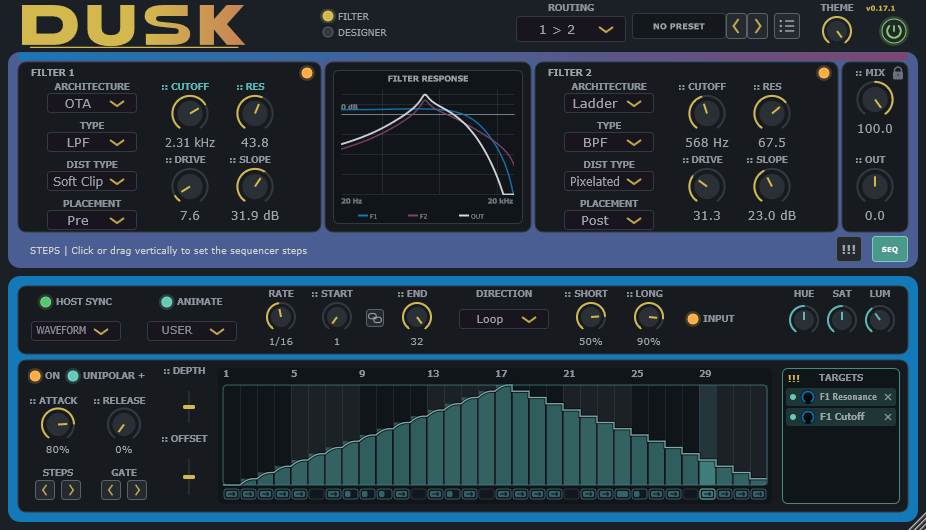
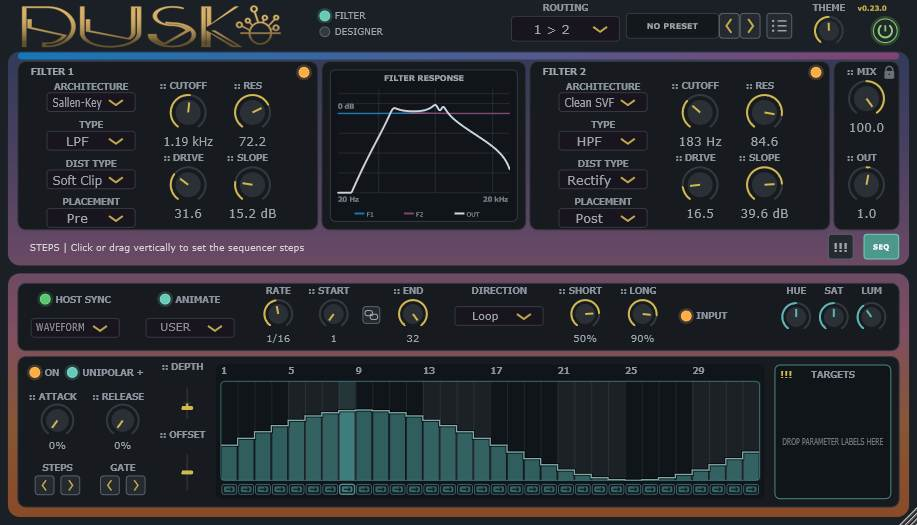
Add files via upload

diff --git a/README.md b/README.md
@@ -2,7 +2,7 @@
 
 <div align="center">
 
-[![Release](https://img.shields.io/github/v/release/sl2365/Dusk?style=for-the-badge-square&logo=github&logoColor=white&color=purple)](https://github.com/sl2365/Dusk/releases/latest/download/Dusk.rar)
+[![Release](https://img.shields.io/github/v/release/sl2365/Dusk?style=for-the-badge-square&logo=github&logoColor=white&color=amber)](https://github.com/sl2365/Dusk/releases/latest/download/Dusk.rar)
 [![Release Date](https://img.shields.io/github/release-date/sl2365/Dusk?style=for-the-badge-square&logo=github&logoColor=white&color=yellow)](https://github.com/sl2365/Dusk/releases)
 
 [![Latest Asset Downloads](https://img.shields.io/github/downloads/sl2365/Dusk/latest/Dusk.rar?style=for-the-badge-square&logo=github&logoColor=white&label=downloads-latest&displayAssetName=false&color=blue)](https://github.com/sl2365/Dusk/releases/latest)
@@ -32,8 +32,8 @@ Dusk creates a portable `Dusk` data folder beside the installed plugin. If the c
 
 1. Select `Filter 1`, `Filter 2`, `1 > 2` or `1 + 2` from Routing.
 2. Use each amber filter LED to switch that filter on or off. Lit means on.
-3. Choose an Architecture for each active filter. Clean SVF, Ladder and OTA use the standard Type control; Comb, Formant and Phaser provide their own main controls.
-4. For standard architectures, set Cutoff, Resonance and the continuous 6–48 dB/octave Slope. Comb uses Frequency, Feedback and Damping; Formant uses Vowel, Shift and Focus; Phaser uses Frequency, Feedback and Depth.
+3. Choose an Architecture for each active filter. Clean SVF, Ladder, OTA and Sallen-Key use the standard Type control; Comb, Formant, Phaser and Modal Resonator provide their own main controls.
+4. For standard architectures, set Cutoff, Resonance and the continuous 6–48 dB/octave Slope. Comb uses Frequency, Feedback and Damping; Formant uses Vowel, Shift and Focus; Phaser uses Frequency, Feedback and Depth; Modal Resonator uses Frequency, Decay and Body.
 5. Add Drive, choose a distortion Type, then choose its Pre, Internal or Post Placement.
 6. Open DESIGNER to change the controls belonging to the selected Architecture or recall a Model.
 7. Use MIX and OUT to set the final wet balance and level.
@@ -49,7 +49,7 @@ Hover any control or its label to see its matching description in the fixed help
 | 1 > 2 | Filter 1 feeds Filter 2 in series |
 | 1 + 2 | Both filters process the input in parallel and are gain-compensated before mixing |
 
-The response display follows the selected architectures and their applicable FILTER and DESIGNER controls. It shows the exact small-signal filter response; nonlinear saturation, high-level limiting and selectable distortion cannot be represented by one fixed level-independent curve. Comb Stereo Spread and Phaser Stereo are excluded because the compact display represents the centre-tuned mono response.
+The response display follows the selected architectures and their applicable FILTER and DESIGNER controls. It shows the exact small-signal filter response; nonlinear saturation, high-level limiting and selectable distortion cannot be represented by one fixed level-independent curve. Comb Stereo Spread and Phaser Stereo are excluded because the compact display represents the centre-tuned mono response. Modal Resonator shows every active mode, its decay envelope and the Body blend. Sallen-Key includes Q Curve, Cell Gain, Stage Coupling, Component Variation and HF Damping; Op Sat is nonlinear and therefore excluded from the small-signal curve.
 
 ## FILTER view
 
@@ -57,11 +57,11 @@ Each side controls one independent filter engine.
 
 | Control | Function |
 |---|---|
-| Architecture | Selects the genuine DSP structure: Clean SVF, Ladder, OTA, Comb, Formant or Phaser |
-| Type | For Clean SVF, Ladder and OTA, selects LPF, BPF, HPF, NOTCH or PEAK |
-| Cutoff | For Clean SVF, Ladder and OTA, sets the principal frequency from 20 Hz to 20 kHz |
-| Resonance | For Clean SVF, Ladder and OTA, emphasises the response around Cutoff |
-| Slope | For Clean SVF, Ladder and OTA, continuously changes the response from 6 to 48 dB/octave |
+| Architecture | Selects the genuine DSP structure: Clean SVF, Ladder, OTA, Comb, Formant, Phaser, Modal Resonator or Sallen-Key |
+| Type | For Clean SVF, Ladder, OTA and Sallen-Key, selects LPF, BPF, HPF, NOTCH or PEAK |
+| Cutoff | For Clean SVF, Ladder, OTA and Sallen-Key, sets the principal frequency from 20 Hz to 20 kHz |
+| Resonance | For Clean SVF, Ladder, OTA and Sallen-Key, emphasises the response around Cutoff |
+| Slope | For Clean SVF, Ladder, OTA and Sallen-Key, continuously changes the response from 6 to 48 dB/octave |
 | Comb Mode | For Comb, selects Feedback, Feedforward or All-pass |
 | Frequency | For Comb, sets the fundamental delay frequency from 20 Hz to 8 kHz |
 | Feedback | For Comb, sets the amount and strength of the delayed branch |
@@ -72,6 +72,9 @@ Each side controls one independent filter engine.
 | Frequency | For Phaser, moves the complete phase-cancellation pattern from 20 Hz to 20 kHz |
 | Feedback | For Phaser, sets positive or negative bounded feedback around the all-pass cascade |
 | Depth | For Phaser, changes the internal dry/all-pass blend from transparent to deep notches |
+| Frequency | For Modal Resonator, sets the fundamental mode from 20 Hz to 4 kHz |
+| Decay | For Modal Resonator, sets the fundamental ringing time from 20 ms to 5 seconds |
+| Body | For Modal Resonator, blends from the direct signal to the resonant body |
 | Drive | Sets the amount sent to the selected distortion model |
 | Dist Type | Selects one of the 17 distortion models |
 | Placement | Places that distortion before, inside or after the filter |
@@ -117,9 +120,23 @@ A cascade of twelve continuously running first-order all-pass stages. The Stages
 
 Phaser has no fixed internal LFO. Move or automate Frequency directly, or assign it to Dusk's sequencer for rhythmic and continuously repeating sweeps. The permanent response display includes Frequency, Feedback, Depth, Stages, Spread, Skew and feedback Damping. Stage Saturation, Stereo and selectable distortion are intentionally excluded from the mono small-signal curve.
 
+### Modal Resonator
+
+An eight-mode parallel resonator bank that turns transients, drums and sustained material into tuned physical-body colour. Frequency sets the fundamental, Decay controls its ringing time, and Body blends the direct signal with the resonant bank. Each mode uses a stable two-pole resonator with bounded energy compensation, keeping long rings audible instead of making high-Decay settings disappear. A smooth high-level guard restrains pathological sustained resonance without changing ordinary small-signal behaviour.
+
+Modes fades the resonances in continuously instead of switching them abruptly. Ratio morphs from a harmonic series toward irregular metallic ratios, while Inharm changes how strongly the upper ratios compress or stretch. Decay Tilt can lengthen or shorten the upper modes; Damping progressively shortens high-mode ringing without shortening the fundamental; Excite tilts the energy from dark lower modes to bright upper modes.
+
+Modal Resonator has no standard LPF/BPF/HPF Type because its bank of pitched modes is the architecture. Internal distortion processes every mode separately with independent state. The permanent response display uses the same frequencies, radii, normalisation and Body blend as the audio path.
+
+### Sallen-Key
+
+A cascade of four continuously running active two-pole cells. It uses the standard Type, Cutoff, Resonance and continuous 6–48 dB/octave Slope controls, while the Designer changes the response of the active cells themselves. At 6 dB the output starts from a true one-pole path, blends into the first two-pole cell by 12 dB, then moves continuously through two, three and four cells at 24, 36 and 48 dB/octave.
+
+Q Curve changes how the Resonance knob reaches the available cell Q. Cell Gain increases the active positive-feedback character and maximum Q. Stage Coupling determines how strongly later cells share that resonance, while Component Variation spreads the cells around Cutoff using a repeatable component-tolerance pattern. Op Sat adds bounded nonlinear colour after each cell without clearing its state. HF Damping progressively restrains and darkens the later cells.
+
 ## DESIGNER view
 
-Designer controls edit the character of the selected Architecture. Clean SVF, Ladder and OTA keep the standard Type, Cutoff, Resonance and Slope controls on FILTER. Comb provides Mode, Frequency, Feedback and Damping; Formant provides Vowel, Shift and Focus; Phaser provides Frequency, Feedback and Depth. Drive remains available for every Architecture.
+Designer controls edit the character of the selected Architecture. Clean SVF, Ladder, OTA and Sallen-Key keep the standard Type, Cutoff, Resonance and Slope controls on FILTER. Comb provides Mode, Frequency, Feedback and Damping; Formant provides Vowel, Shift and Focus; Phaser provides Frequency, Feedback and Depth; Modal Resonator provides Frequency, Decay and Body. Drive remains available for every Architecture.
 
 ### Clean SVF Designer
 
@@ -183,11 +200,33 @@ Designer controls edit the character of the selected Architecture. Clean SVF, La
 | Stage Sat | Strongly saturates every all-pass stage, producing cumulative colour and level interaction as Stages increases; the protected feedback return prevents runaway resonance |
 | Stereo | Moves the left and right stage patterns in opposite directions by up to three quarters of an octave |
 
+### Modal Resonator Designer
+
+| Control | Function |
+|---|---|
+| Modes | Continuously fades from one to eight active resonant modes |
+| Ratio | Morphs the mode spacing from harmonic to irregular metallic ratios |
+| Inharm | Compresses or stretches upper-mode ratios while retaining the fundamental |
+| D Tilt | Tilts the upper modes toward shorter or longer decay times |
+| Damp | Progressively shortens high-mode ringing without shortening the fundamental |
+| Excite | Tilts the modal energy from darker lower modes to brighter upper modes |
+
+### Sallen-Key Designer
+
+| Control | Function |
+|---|---|
+| Q Curve | Reshapes how the Resonance knob builds active-cell Q |
+| Cell Gain | Raises the active-cell positive-feedback character and available Q |
+| Stage Cpl | Distributes resonance from the first cell into the later cells |
+| Comp Var | Spreads the cell frequencies in either direction to model component-ratio variation |
+| Op Sat | Adds bounded op-amp-style saturation after every active cell |
+| HF Damp | Reduces later-cell Q and gently lowers their frequency to soften bright buildup |
+
 ## Filter Models
 
 A Model is an editable configuration of one Architecture and its supported Designer controls. It is not another filter Type and it does not change Type, Cutoff, Resonance, Slope, Drive, routing, sequencer settings or the other filter.
 
-Factory Models provide starting points for Clean SVF, Ladder, OTA, Comb, Formant and Phaser. After recalling one, move any included Designer control to customise it; the Model display then changes to `CUSTOM` without undoing the recalled values.
+Factory Models provide starting points for Clean SVF, Ladder, OTA, Comb, Formant, Phaser, Modal Resonator and Sallen-Key. Sallen-Key includes Clean Sallen-Key, Butterworth, Resonant Key, Vintage Key and Hot Sallen-Key starting points. The selector uses two columns so every factory group remains visible without growing beyond the screen. After recalling one, move any included Designer control to customise it; the Model display then changes to `CUSTOM` without undoing the recalled values.
 
 Use the `...` button beside either Model selector to:
 
@@ -219,6 +258,8 @@ Internal behaves according to the selected Architecture:
 - Comb shapes each Mode's delayed branch before its loop saturation, limiting and output/write calculation. Its three Modes keep separate internal distortion memory.
 - Formant shapes each of its three vocal bands independently before their level, Tilt and final summing stages. Every band keeps separate internal distortion memory.
 - Phaser shapes the selected all-pass output inside its bounded feedback return. The direct phase-cancellation path remains separate, and the Phaser has its own distortion-state memory.
+- Modal Resonator shapes each of its eight resonant modes separately before their weighted sum. Every mode has independent distortion-state memory.
+- Sallen-Key shapes the completed active-cell cascade using its own isolated internal distortion-state bank.
 
 The external Pre/Post path and each Architecture's Internal path use separate state memory. Stateful models such as Comb therefore cannot carry external-placement history into an Architecture's feedback path, or internal history from one Architecture into another.
 
@@ -255,7 +296,7 @@ User sequences are stored as `.duskseq` files in the portable Sequences folder.
 - Right-click the current preset name for the quick menu.
 - MIX LOCK keeps the current MIX value when another preset is loaded.
 - The global Power LED bypasses or enables Dusk processing.
-- THEME changes the interface colour treatment.
+- THEME fades the continuous indigo, violet, pink and orange sunset surround toward neutral charcoal. The Filter and Sequencer remain separate panels while sharing one unbroken vertical colour progression.
 - Drag the resize handle to scale the interface from 75% to 200%.
 - The randomise button changes supported filter and Designer controls within bounded ranges while leaving Architecture, routing, filter power, Placement, MIX, global Power and sequencer state unchanged.
 

diff --git a/Changelog.md b/Changelog.md
@@ -1,5 +1,35 @@
 # Dusk Changelog
 
+## 0.23.0 — Sallen-Key Architecture and Dusk Sunset Theme — 15 November 2026
+
+- Added Sallen-Key as an eighth genuine per-filter DSP Architecture, using four continuously running active two-pole cells plus a true one-pole 6 dB endpoint.
+- Kept Type, Cutoff, Resonance, Slope and Drive on FILTER and added six context-sensitive Designer controls per filter: Q Curve, Cell Gain, Stage Coupling, bipolar Component Variation, Op-Amp Saturation and HF Damping.
+- Added a continuous 6–48 dB/octave Sallen-Key path: one pole at 6 dB, one active cell at 12 dB and smoothly blended cell counts through 24, 36 and 48 dB.
+- Added Sallen-Key's exact small-signal response to the permanent graph using the same cell Q, coupling, component spread, damping and slope interpolation as the audio path. Nonlinear Op Sat and selectable distortion remain outside the level-independent graph.
+- Added Clean Sallen-Key, Butterworth, Resonant Key, Vintage Key and Hot Sallen-Key Factory Models plus Sallen-Key User Model save/load whitelisting.
+- Added 12 F1/F2 Sallen-Key Designer sequencer targets, appended after all existing target numbers so every previous assignment retains its number.
+- Added 50 ms smoothing for every Sallen-Key coefficient-driving control and isolated its Internal distortion state from every other Architecture and the external Pre/Post path.
+- Forced the Model selector into two columns so the growing Factory and User Model library remains on-screen. Section headings retain the same font size, row height and spacing as ordinary entries.
+- Replaced the single-colour outer surrounds with one continuous six-stop Dusk sunset palette sampled from the supplied reference: indigo and violet above, mauve and pink through the middle, then orange below. FILTER and Sequencer remain separate rounded panels and the Theme knob still fades the complete palette to charcoal.
+- Fixed MSVC C4244 warnings in the Ladder feedback feedthrough calculation with explicit double-to-float conversion after `std::pow`.
+- Fixed MSVC C4458 warnings by renaming the `processFilterArchitecture` Comb mode arguments so they no longer hide the processor's mode-state members.
+- Kept all existing parameter IDs, ranges, defaults, Models and sequencer target numbers unchanged; new parameters and targets are appended. Advanced the pre-release state schema to version 22.
+
+## 0.22.0 — Modal Resonator Architecture and New Logo — 15 November 2026
+
+- Added Modal Resonator as a seventh genuine per-filter DSP Architecture, built from eight independently stateful two-pole resonators with bounded energy-compensated excitation and smooth high-level output protection.
+- Added Frequency, Decay and Body controls on FILTER. Modal Resonator hides the unrelated standard Type, Cutoff, Resonance and Slope controls while retaining Drive and distortion controls.
+- Added six context-sensitive Modal Designer controls per filter: continuously faded Modes, harmonic-to-metallic Ratio, bipolar Inharmonicity, bipolar Decay Tilt, high-mode Damping and bipolar Excitation balance.
+- Added the exact linear Modal response to the permanent display using the same mode frequencies, pole radii, weights, normalisation and Body blend as the audio path.
+- Inserted Internal distortion into every resonant mode with eight separate distortion-state banks, isolated from other Architectures and the external Pre/Post path.
+- Added Bell, Plate, Tube, String and Wooden Body Factory Models plus Modal User Model save/load whitelisting.
+- Added 18 F1/F2 Modal sequencer targets for all three FILTER controls and all six Designer controls, appended after every existing target number.
+- Added 50 ms smoothing for all Modal coefficient-driving controls and multiplicative smoothing for Frequency. Fractional Modes fade the next resonator continuously.
+- Reported a ten-second processing tail to the host so long Modal decays and serial resonator combinations are not treated as tail-less effects during rendering.
+- Replaced the embedded header SVG with the supplied transparent 700×115 `Resources/dusk_logo.png`, retaining the existing logo bounds and safe gap before the FILTER/DESIGNER selectors.
+- Kept the accepted 0.21.5 Phaser DSP unchanged.
+- Advanced the pre-release state schema to version 21 for the 18 new automatable Modal parameters; all existing parameter IDs and sequencer target numbers remain unchanged and the new entries are appended.
+
 ## 0.21.5 — Phaser Feedback Squeal Correction — 14 November 2026
 
 - Identified the sustained squeal as a feedback-loop fault rather than excessive Stage Sat output. The restored per-stage saturation makeup could multiply the small-signal loop gain above unity as Stages increased.
